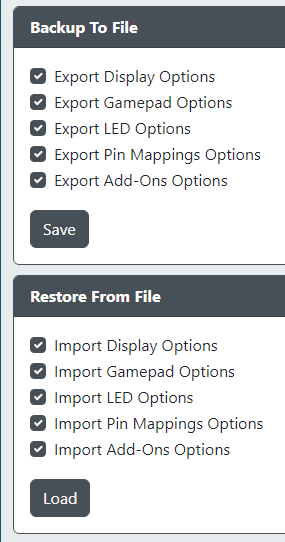
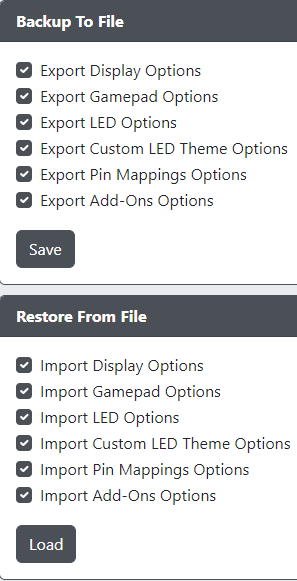
Documentation updates for custom LED enhancements (#236)
* Documentation updates for custom LED enhancements

* Update led theme label on backup page

Changed region(s): [[0.0, 0.0, 1.0, 1.0]]

diff --git a/docs/web-configurator.md b/docs/web-configurator.md
@@ -56,6 +56,12 @@ If you have a setup with per-button RGB LEDs, they can be configured here.
 * `Preview Layout` - Predefined layouts for previewing LED theme. **NOTE:** This is for preview only, does not affect controller operation.
 * `Clear All` - Prompts for confirmation to reset the current theme to all buttons black (LEDs off). Make sure you have saved and have a backup if you don't want to lose your customizations.
 * `Set All To Color` - Presents a color picker to set all buttons to the same normal or pressed color.
+* `Set Gradient` - Sets a horizontal gradient across the action buttons according to the `Preview Layout` selection.
+* `Set Pressed Gradient` - Same as `Set Gradient`, but for pressed button state.
+* `Save Color` - Save a custom color to the color picker palette.
+* `Delete Color` - Deletes a custom color from the color picker palette. Stock colors cannot be deleted.
+
+?> All saved colors and gradient selections are saved to your browser's local storage.
 
 If enabled, the Custom LED Theme will be available as another animation mode and will cycle with the `Previous Animation` and `Next Animation` shortcuts on your controller. You can also use the [Data Backup and Restoration](#data-backup-and-restoration) feature to create and share themes!
 